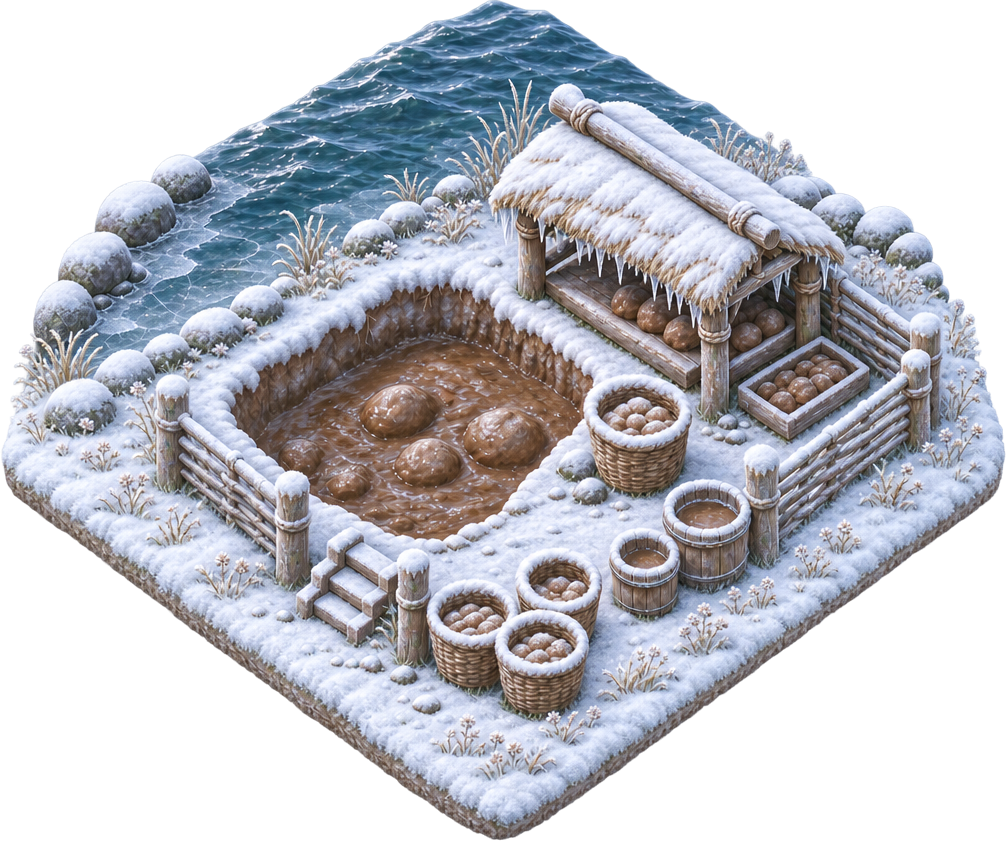
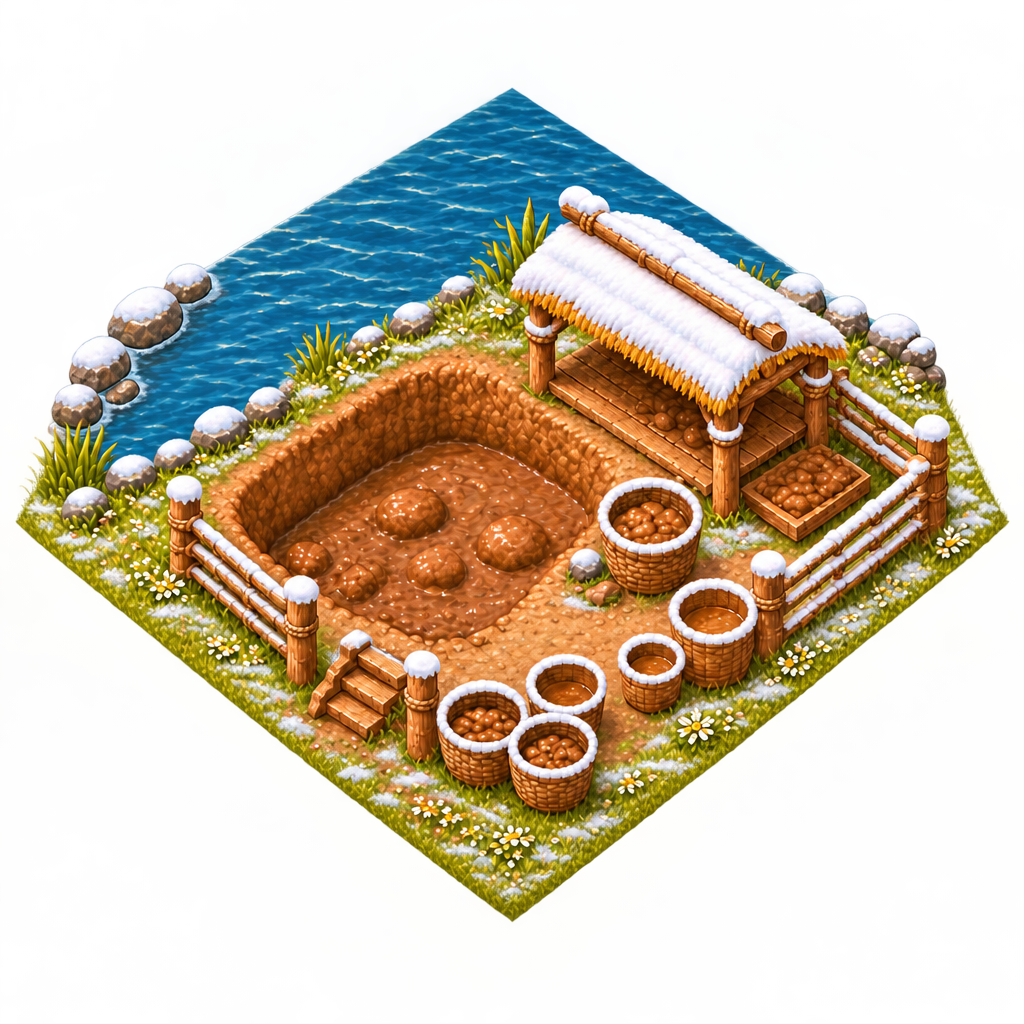
V241: Tongrube mit neuem Bild ohne Sockel, Wasserseite in Flussfarbe
Claude-Session: https://claude.ai/code/session_01W1n1hf4HzmNEgHroYYEZqd

diff --git a/neu/js/zeichnen.js b/neu/js/zeichnen.js
@@ -53,7 +53,7 @@ const images = {};
 const NO_PLATE = /^(f-|ware-|fund-|mensch-|fischer-|einbaum|hirsch|mammut|ziege|esel|baum-|berg-|fels-|huegel-|blumen|busch|wiese|schneewiese|sand|wasser|pfad|setzling)/;
 // Scenario-Bilder ohne Sockel (V240, Wunsch Emin 20.11.2026): keine Grasplatte im Bild, das Gebäude steht direkt auf dem
 // Boden. Die Unterkante (Zaun, Steine) gibt die Raute vor – nichts abschneiden, keine Plattendicke.
-const FLAT_IMAGES = /^1-(acker|ahnenplatz|fellmacherin|fellzelt|feuerplatz|grubenhaus|hoehlenmaler|holzsammler|jaegerlager|lagerfeuer|langhaus|mammutjaegerlager|pfahlbau|pflanzerin|sammlerin|steinkreis|steinsammler|steinschlaeger|toepferei|vorratsspeicher|wohnhoehle|ziegengehege)(-r[12])?(-winter)?$/;
+const FLAT_IMAGES = /^1-(acker|ahnenplatz|fellmacherin|fellzelt|feuerplatz|grubenhaus|hoehlenmaler|holzsammler|jaegerlager|lagerfeuer|langhaus|mammutjaegerlager|pfahlbau|pflanzerin|sammlerin|steinkreis|steinsammler|steinschlaeger|toepferei|tongrube|vorratsspeicher|wohnhoehle|ziegengehege)(-r[12])?(-winter)?$/;
 function plateFor(name, img) {
   if (NO_PLATE.test(name)) return null;
   if (FLAT_IMAGES.test(name)) return flatPlate(img);

diff --git a/neu/index.html b/neu/index.html
@@ -3,7 +3,7 @@
 <head>
   <meta charset="UTF-8">
   <meta name="viewport" content="width=device-width, initial-scale=1, maximum-scale=1, user-scalable=no, viewport-fit=cover">
-  <meta name="app-version" content="240">
+  <meta name="app-version" content="241">
   <meta name="theme-color" content="#3d7a2a">
   <meta name="color-scheme" content="only light">
   <meta name="apple-mobile-web-app-capable" content="yes">

diff --git a/neu/js/daten.js b/neu/js/daten.js
@@ -2,7 +2,7 @@
 // Epochia – alle Spieldaten (Zahlen zum Feinjustieren stehen hier oben, die Logik liest nur daraus).
 // Pläne: docs/konzept-neu.md und docs/epoche-1-steinzeit.md
 
-const APP_VERSION = 240;
+const APP_VERSION = 241;
 
 const CONFIG = {
   mapSize: 512,           // Felder je Seite, zentral änderbar (Vielfaches von 16; 64 bis Version 21, 128 bis Version 54 – alte Karten liegen in der Mitte)

diff --git a/neu/service-worker.js b/neu/service-worker.js
@@ -1,6 +1,6 @@
 // Epochia – offline spielen. Bei Änderungen die Versionsnummer erhöhen (gleiche Nummer wie
 // APP_VERSION in js/daten.js und <meta name="app-version"> in index.html).
-const CACHE = 'v240';
+const CACHE = 'v241';
 const ASSETS = [
   './',
   'index.html',

diff --git a/neu/tools/scenario-einbauen.py b/neu/tools/scenario-einbauen.py
@@ -23,6 +23,22 @@ RAUCH = {
 }
 # Winterbilder sind wie das Sommerbild aufgebaut: derselbe Kasten
 
+# Gebäude halb im Wasser: gemaltes Wasser in der Farbe des Flusses im Spiel (zeichnen.js blendet es zum Rand weich aus)
+WASSER = {'tongrube'}
+FLUSS = (97, 154, 158)
+
+def wasser_angleichen(im):
+    px = im.load(); w, h = im.size; wasser = []
+    for y in range(h):
+        for x in range(w):
+            r, g, b, a = px[x, y]
+            if a and b > r + 20 and b > 90: wasser.append((x, y))
+    if not wasser: return
+    mittel = [sum(px[x, y][i] for x, y in wasser) / len(wasser) for i in range(3)]
+    for x, y in wasser:
+        r, g, b, a = px[x, y]
+        px[x, y] = tuple(max(0, min(255, round(FLUSS[i] + ((r, g, b)[i] - mittel[i]) * 0.5))) for i in range(3)) + (a,)
+
 def hell_grau(r, g, b):
     mx, mn = max(r, g, b), min(r, g, b)
     return mx > 150 and (mx - mn) / max(mx, 1) < 0.3
@@ -56,6 +72,7 @@ def bearbeiten(im, name, box=None):
     im = im.crop(box)
     if im.width > 640:
         im = im.resize((640, round(im.height * 640 / im.width)), Image.LANCZOS)
+    if name.split('-')[0] in WASSER: wasser_angleichen(im)
     im.box = box
     return im, schleier
 

diff --git a/docs/wuensche.md b/docs/wuensche.md
@@ -27,6 +27,7 @@ Stichworte reichen, z. B. „- Farm zeigt falsche Arbeiterzahl nach dem Verschie
 
 ## Erledigt
 
+- 20.11.2026, V241: Tongrube mit neuem Bild ohne Sockel (drei Ansichten plus Winter), die Wasserseite in der Farbe des Flusses.
 - 20.11.2026, V240: Neue Steinzeit-Bilder aus Scenario ohne Sockel (22 Gebäude, Vorder- und Rückansicht, Sommer und Winter mit Sommerfarben und Schnee); 12 Arbeitsplätze mit Zaun und Tor, das Tor dreht sich beim Bauen zum Weg. Tongrube behält vorerst ihr altes Bild (steht halb im Wasser, neues Bild mit Wasser folgt).
 - 20.11.2026, V239: Gebäude ohne Erdsockel – liegen flach auf dem Boden. Tor-Logik vorbereitet (Gebäude mit Zaun drehen das Tor zum Weg, Arbeiter gehen durchs Tor); neue Scenario-Bilder mit Zaun folgen.
 - 19.11.2026, V238: Shop Teil 2 – Stadtfahne mit Wappen (6 Farben) und Feuerwerk. 16 neue Deko-Stücke folgen ab 21.11. (Scenario-Credits).
